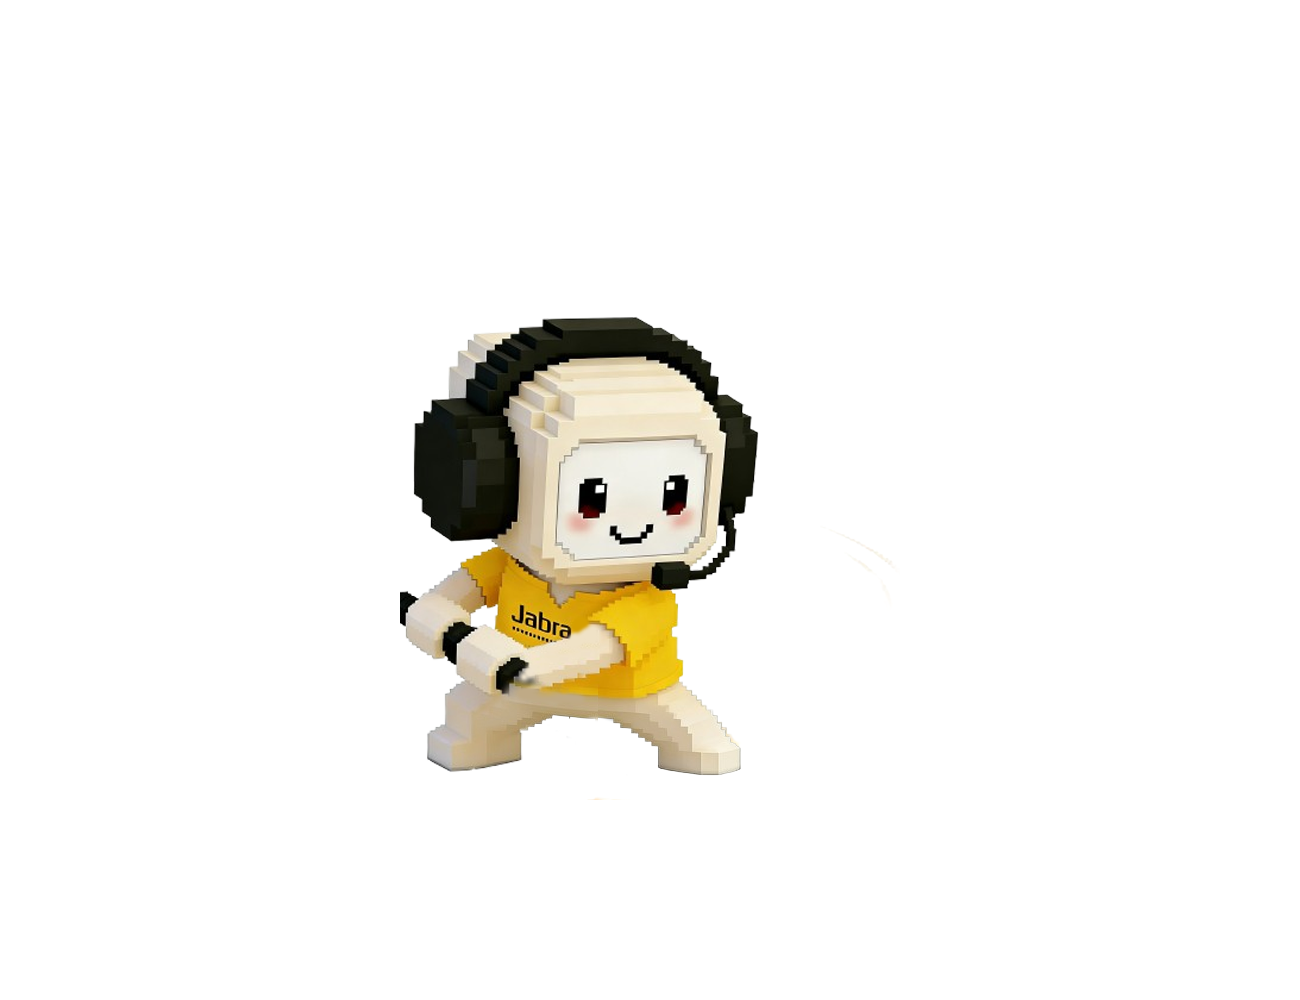
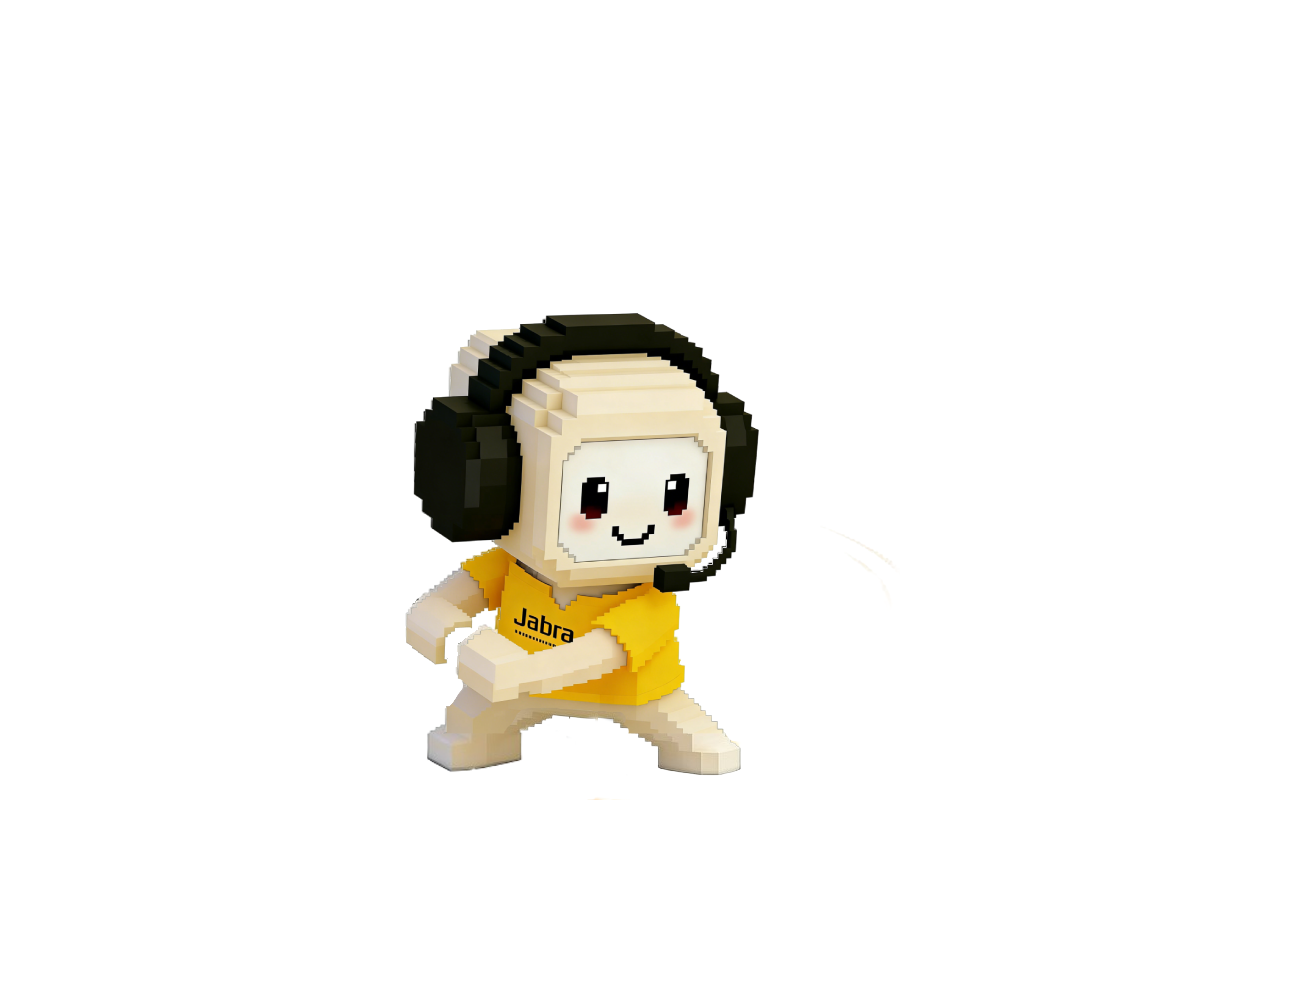
更新代码

Changed region(s): [[0.3077, 0.31, 0.5846, 0.744]]

diff --git a/App.tsx b/App.tsx
@@ -22,7 +22,7 @@ const INITIAL_DATA: CharacterData = {
   str: 5,
   agi: 5,
   spd: 5,
-  maxHp: 60,
+  maxHp: 300,
   weapons: [],
   skills: [],
   dressing: { HEAD: '', BODY: '', WEAPON: '' },
@@ -90,7 +90,7 @@ const App: React.FC = () => {
     const assetBase = 'Images/';
     const stateConfigs: Record<string, number> = {
       home: 2, idle: 2, run: 5, atk: 4, hurt: 1, dodge: 1,
-      jump: 1, cleave: 2, slash: 3, pierce: 4, swing: 4, throw: 3, punch: 2
+      jump: 1, cleave: 3, slash: 3, pierce: 4, swing: 4, throw: 3, punch: 2
     };
 
     const coreImages = ['character.png'];
@@ -202,7 +202,8 @@ const App: React.FC = () => {
     const nextLvl = currentData.level + 1;
     const results: string[] = [`恭喜！你升到了等级 ${nextLvl}！`];
     let newData = { ...currentData, level: nextLvl, exp: 0 };
-    newData.maxHp = 50 + nextLvl * 10;
+    // 基础血量从300开始成长
+    newData.maxHp = 290 + nextLvl * 10;
     const stats = ['str', 'agi', 'spd'] as const;
     const randomStat = stats[Math.floor(Math.random() * stats.length)];
     const bonus = newData.isConcentrated ? 2 : 1;
@@ -238,6 +239,10 @@ const App: React.FC = () => {
     setLevelUpResults(results);
   };
 
+  const handleLevelUpManual = () => {
+    handleLevelUp(player);
+  };
+
   const handleBattleWin = (gainedGold: number, gainedExp: number) => {
     setBattleResult({ isWin: true, gold: gainedGold, exp: gainedExp });
     let newExp = player.exp + gainedExp;
@@ -267,7 +272,7 @@ const App: React.FC = () => {
 
   return (
     <div className={`${view === 'TEST' ? 'max-w-[1440px]' : view === 'COMBAT' ? 'max-w-6xl' : 'max-w-4xl'} mx-auto p-3 md:p-8 min-h-screen font-sans text-gray-800 transition-all duration-700`}>
-      <header className="flex flex-col sm:flex-row justify-between items-center mb-4 md:mb-6 bg-white p-3 md:p-4 rounded-xl shadow-sm border border-gray-100 gap-3">
+      <header className="relative z-[100] flex flex-col sm:flex-row justify-between items-center mb-4 md:mb-6 bg-white p-3 md:p-4 rounded-xl shadow-sm border border-gray-100 gap-3">
         <h1 className="text-lg md:text-2xl font-bold text-orange-600 cursor-pointer" onClick={() => setView('HOME')}>Q-Fight Master</h1>
         <div className="flex flex-wrap items-center justify-center gap-2 md:gap-3">
           <div className="flex items-center gap-1.5 bg-slate-50 px-2 md:px-3 py-1 rounded-full border border-slate-200">
@@ -333,7 +338,7 @@ const App: React.FC = () => {
           <Profile player={player} isDebugMode={isDebugMode} />
           <div className="space-y-3 md:space-y-4">
             <button onClick={() => startCombat('NORMAL')} className="w-full bg-orange-500 hover:bg-orange-600 text-white py-4 md:py-5 rounded-xl text-lg md:text-xl font-black shadow-lg shadow-orange-200 transition-all active:scale-95 flex items-center justify-center space-x-2"><span>⚔</span> <span>开启对决</span></button>
-            <button onClick={() => startCombat('SPECIAL')} className="w-full bg-gradient-to-r from-purple-600 to-indigo-600 hover:from-purple-700 hover:to-indigo-700 text-white py-3 md:py-4 rounded-xl text-base md:text-lg font-black shadow-lg shadow-indigo-200 transition-all active:scale-95 flex items-center justify-center space-x-2 border-b-4 border-indigo-900/30"><span>🔱</span> <span>特殊挑战 (1/5/9)</span></button>
+            <button onClick={() => startCombat('SPECIAL')} className="w-full bg-gradient-to-r from-purple-600 to-indigo-600 hover:from-purple-700 hover:to-indigo-700 text-white py-3 md:py-4 rounded-xl text-base md:text-lg font-black shadow-lg shadow-indigo-200 transition-all active:scale-95 flex items-center justify-center space-x-2 border-b-4 border-indigo-900/30"><span>🔱</span> <span>特殊挑战 (1/5/9/14)</span></button>
             <div className="grid grid-cols-2 gap-2 md:gap-4">
               <button onClick={() => setView('SKILLS')} className="bg-blue-500 hover:bg-blue-600 text-white py-3 md:py-4 rounded-xl font-bold shadow-lg shadow-blue-100 transition-all active:scale-95">📜 秘籍</button>
               <button onClick={() => setView('DRESSING')} className="bg-purple-500 hover:bg-purple-600 text-white py-3 md:py-4 rounded-xl font-bold shadow-lg shadow-purple-100 transition-all active:scale-95">👗 装扮</button>

diff --git a/components/TestPanel.tsx b/components/TestPanel.tsx
@@ -25,6 +25,7 @@ const TestPanel: React.FC<TestPanelProps> = ({ player, isDebugMode = false, onBa
   const [offset, setOffset] = useState({ x: 0, y: 0 });
   const [moveDuration, setMoveDuration] = useState(300);
   const [isAnimating, setIsAnimating] = useState(false);
+  const [shaking, setShaking] = useState(false);
   const [projectiles, setProjectiles] = useState<Projectile[]>([]);
   const projectileCounter = useRef(0);
   const charContainerRef = useRef<HTMLDivElement>(null);
@@ -52,23 +53,27 @@ const TestPanel: React.FC<TestPanelProps> = ({ player, isDebugMode = false, onBa
 
     switch (module) {
       case 'CLEAVE':
-        setMoveDuration(200);
-        setVisual({ state: 'RUN', frame: 1, weaponId: currentWeaponId });
-        setOffset({ x: 64, y: 0 });
-        await new Promise(r => setTimeout(r, 200));
-        
-        setMoveDuration(450);
-        // 用 CLEAVE 第 1 帧代替原先的 JUMP
+        // 帧1: 迅猛起跳
+        setMoveDuration(120);
         setVisual({ state: 'CLEAVE', frame: 1, weaponId: currentWeaponId });
-        setOffset({ x: dir, y: -200 });
-        await new Promise(r => setTimeout(r, 450));
+        setOffset({ x: 64, y: -60 });
+        await new Promise(r => setTimeout(r, 120));
         
+        // 帧2: 空中最高点
+        setMoveDuration(300);
+        setVisual({ state: 'CLEAVE', frame: 2, weaponId: currentWeaponId });
+        setOffset({ x: dir, y: -260 });
+        await new Promise(r => setTimeout(r, 300));
+        
+        // 落地 Descent
         setMoveDuration(80);
         setOffset({ x: dir, y: 0 });
         await new Promise(r => setTimeout(r, 80));
         
-        // 最终动作使用 CLEAVE 第 2 帧
-        setVisual({ state: 'CLEAVE', frame: 2, weaponId: currentWeaponId });
+        // 帧3: 落地劈砍 (触发震动)
+        setVisual({ state: 'CLEAVE', frame: 3, weaponId: currentWeaponId });
+        setShaking(true);
+        setTimeout(() => setShaking(false), 500);
         await new Promise(r => setTimeout(r, 800));
         break;
 
@@ -180,7 +185,7 @@ const TestPanel: React.FC<TestPanelProps> = ({ player, isDebugMode = false, onBa
   ];
 
   return (
-    <div ref={mainContainerRef} className="bg-slate-50 rounded-3xl shadow-2xl overflow-hidden flex flex-col h-[88vh] transition-all duration-500 border border-slate-200">
+    <div ref={mainContainerRef} className={`bg-slate-50 rounded-3xl shadow-2xl overflow-hidden flex flex-col h-[88vh] transition-all duration-500 border border-slate-200 ${shaking ? 'animate-heavyShake' : ''}`}>
       <div className="p-8 border-b flex justify-between items-center bg-indigo-700 text-white shadow-xl z-10">
         <div><div className="flex items-center gap-3"><h2 className="text-2xl font-black italic tracking-tighter uppercase">Mega Pro Arena</h2><span className="bg-white/20 text-[10px] px-2 py-0.5 rounded-full font-bold">V2.6 STABLE</span></div><p className="text-[11px] opacity-70 uppercase font-black tracking-[0.3em] mt-1">Full Weapon Animation Laboratory</p></div>
         <button onClick={onBack} className="bg-white text-indigo-700 hover:bg-slate-100 px-8 py-3 rounded-2xl font-black text-sm transition-all active:scale-90 shadow-lg border-b-4 border-indigo-900/20">退出演武</button>
@@ -284,6 +289,8 @@ const TestPanel: React.FC<TestPanelProps> = ({ player, isDebugMode = false, onBa
         .animate-projectile-lab {
           animation: projectile-lab-fly 0.5s cubic-bezier(0.2, 0.8, 0.4, 1) var(--delay) forwards;
         }
+        @keyframes heavyShake { 0%, 100% { transform: translate(0, 0); } 10%, 30%, 50%, 70%, 90% { transform: translate(-6px, -6px); } 20%, 40%, 60%, 80% { transform: translate(6px, 6px); } }
+        .animate-heavyShake { animation: heavyShake 0.4s ease-out; }
         .custom-scrollbar::-webkit-scrollbar { width: 5px; }
         .custom-scrollbar::-webkit-scrollbar-thumb { background: rgba(0,0,0,0.1); border-radius: 10px; }
       `}} />

diff --git a/components/Combat.tsx b/components/Combat.tsx
@@ -99,8 +99,8 @@ const Combat: React.FC<CombatProps> = ({ player, isSpecial = false, isDebugMode 
   useEffect(() => {
     const npcLevel = Math.max(1, player.level + (isSpecial ? 2 : Math.floor(Math.random() * 3) - 1));
     
-    // 如果是特殊对决，固定武器为 w1 (方天画戟), w5 (青龙偃月刀), w9 (红缨枪)
-    const npcWeapons = isSpecial ? ['w1', 'w5', 'w9'] : [...WEAPONS].sort(() => 0.5 - Math.random()).slice(0, 4).map(w => w.id);
+    // 如果是特殊对决，固定武器为 w1 (方天画戟), w5 (青龙偃月刀), w9 (红缨枪), w14 (宽刃剑)
+    const npcWeapons = isSpecial ? ['w1', 'w5', 'w9', 'w14'] : [...WEAPONS].sort(() => 0.5 - Math.random()).slice(0, 4).map(w => w.id);
     // 特殊对决不携带任何技能
     const npcSkills = isSpecial ? [] : [...SKILLS].sort(() => 0.5 - Math.random()).slice(0, 5).map(s => s.id);
 
@@ -127,7 +127,7 @@ const Combat: React.FC<CombatProps> = ({ player, isSpecial = false, isDebugMode 
 
     setFighters({ p: pFighter, n: npc });
     setTurn(pFighter.spd >= npc.spd ? 'P' : 'N');
-    setLogs([{ attacker: '系统', text: isSpecial ? '🔥 特殊挑战！大师携带三件精选兵器降临！' : '⚔ 遭遇战开始！' }]);
+    setLogs([{ attacker: '系统', text: isSpecial ? '🔥 特殊挑战！大师携带四件精选兵器降临！' : '⚔ 遭遇战开始！' }]);
   }, [isSpecial]);
 
   useEffect(() => {
@@ -186,23 +186,25 @@ const Combat: React.FC<CombatProps> = ({ player, isSpecial = false, isDebugMode 
 
       switch (currentModule) {
         case 'CLEAVE': 
-          setMoveDuration(200);
-          atkSetter({ state: 'RUN', frame: 1, weaponId: activeWeaponId });
-          offsetSetter({ x: 64 * dir, y: 0 });
-          await new Promise(r => setTimeout(r, 200));
-          
-          setMoveDuration(450);
-          // 用 CLEAVE 第 1 帧代替原先的 JUMP
+          // 帧1: 迅猛起跳
+          setMoveDuration(120);
           atkSetter({ state: 'CLEAVE', frame: 1, weaponId: activeWeaponId });
-          offsetSetter({ x: meleeDistance, y: -200 }); 
-          await new Promise(r => setTimeout(r, 450));
+          offsetSetter({ x: 96 * dir, y: -60 });
+          await new Promise(r => setTimeout(r, 120));
           
+          // 帧2: 空中停留/最高点
+          setMoveDuration(300);
+          atkSetter({ state: 'CLEAVE', frame: 2, weaponId: activeWeaponId });
+          offsetSetter({ x: meleeDistance, y: -260 }); 
+          await new Promise(r => setTimeout(r, 300));
+          
+          // 落地 Desecent
           setMoveDuration(80);
           offsetSetter({ x: meleeDistance, y: 0 });
           await new Promise(r => setTimeout(r, 80));
           
-          // 最终砸地动作使用 CLEAVE 第 2 帧
-          atkSetter({ state: 'CLEAVE', frame: 2, weaponId: activeWeaponId });
+          // 帧3: 触地瞬间 (触发震动)
+          atkSetter({ state: 'CLEAVE', frame: 3, weaponId: activeWeaponId });
           setShaking('SCREEN'); 
           executeHit(Math.floor(dmg * 1.15), isP, hitType);
           await new Promise(r => setTimeout(r, 800));

diff --git a/components/CharacterVisual.tsx b/components/CharacterVisual.tsx
@@ -54,7 +54,7 @@ const CharacterVisual: React.FC<CharacterVisualProps> = ({
     HURT: { prefix: 'hurt', count: 1 },
     DODGE: { prefix: 'dodge', count: 1 },
     JUMP: { prefix: 'jump', count: 1 }, 
-    CLEAVE: { prefix: 'cleave', count: 2 }, 
+    CLEAVE: { prefix: 'cleave', count: 3 }, 
     SLASH: { prefix: 'slash', count: 3 },
     PIERCE: { prefix: 'pierce', count: 4 },
     SWING: { prefix: 'swing', count: 4 },
@@ -114,7 +114,7 @@ const CharacterVisual: React.FC<CharacterVisualProps> = ({
       className={`relative flex flex-col items-center select-none group transition-all duration-300 ${className} ${debug ? 'outline-2 outline-dashed outline-red-500 rounded-lg bg-red-500/5' : ''}`} 
       style={{ width: `${containerWidth}px`, height: `${containerHeight}px` }}
     >
-      <div className={`absolute bottom-6 h-4 bg-black/10 rounded-[100%] blur-[4px] transition-all duration-300
+      <div className={`absolute bottom-[15%] h-4 bg-black/10 rounded-[100%] blur-[4px] transition-all duration-300
         ${state === 'RUN' ? 'w-32 opacity-40 scale-x-110' : 'w-36 animate-pulse'}
         ${state === 'JUMP' || state === 'CLEAVE' ? 'w-24 opacity-10 scale-x-50' : ''}
         ${state === 'HOME' ? 'w-40 opacity-20 scale-x-110' : ''}

diff --git a/components/Profile.tsx b/components/Profile.tsx
@@ -25,7 +25,7 @@ const Profile: React.FC<ProfileProps> = ({ player, isDebugMode = false }) => {
 
   return (
     <div className="bg-white p-6 rounded-2xl shadow-sm border border-gray-100">
-      <div className="relative w-56 h-56 mx-auto flex items-center justify-center mb-6">
+      <div className="relative w-56 h-56 mx-auto flex items-center justify-center mb-6 pointer-events-none">
         <CharacterVisual 
           state="HOME"
           frame={frame}
